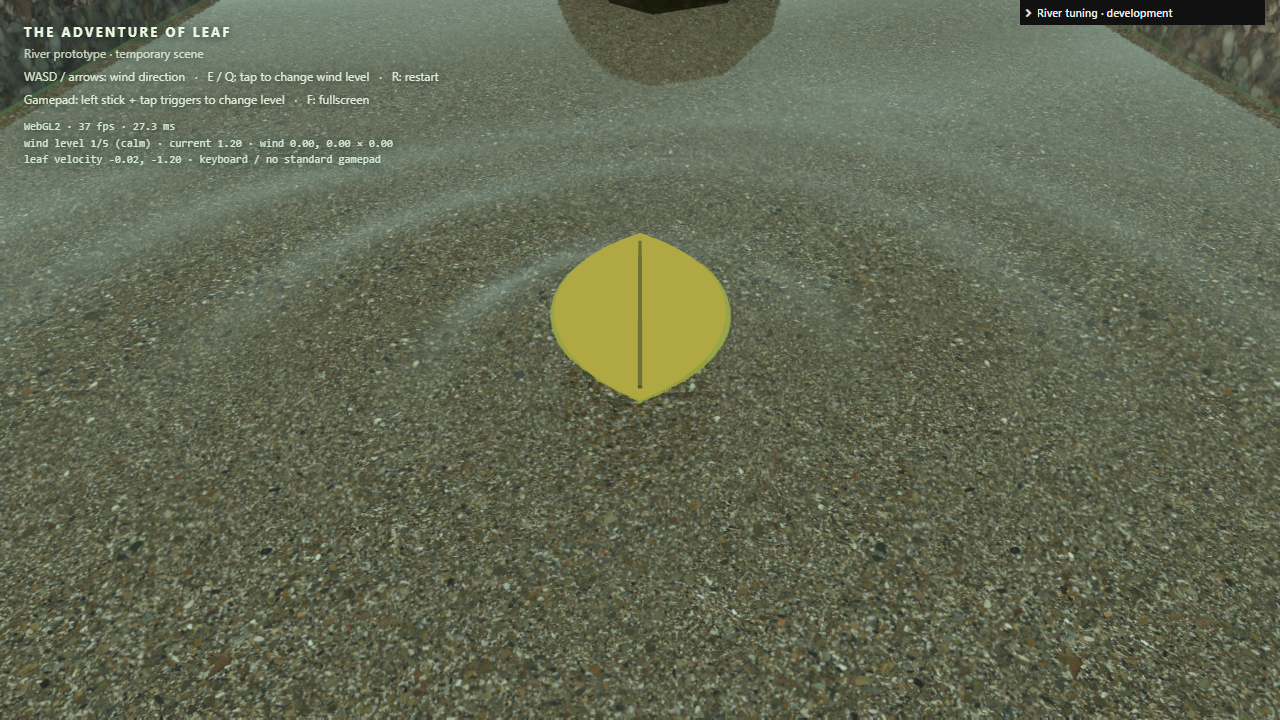
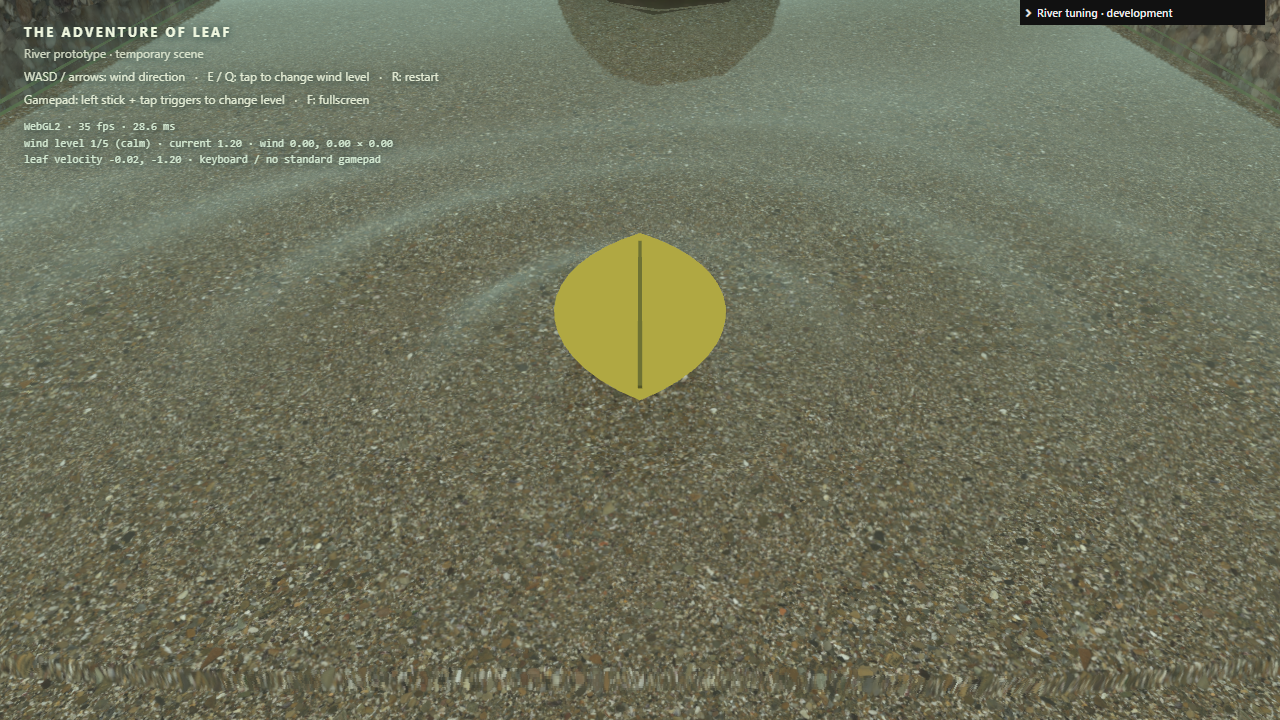
Add depth-aware refraction and physics presentation boundaries

diff --git a/src/water.ts b/src/water.ts
@@ -7,10 +7,22 @@ import {
   positionWorld,
   cameraPosition,
   float,
+  vec2,
   vec3,
   vec4,
   mix,
   uniform,
+  viewportDepthTexture,
+  perspectiveDepthToViewZ,
+  cameraNear,
+  cameraFar,
+  positionView,
+  normalView,
+  refract,
+  getScreenPosition,
+  cameraProjectionMatrix,
+  viewportSafeUV,
+  smoothstep,
 } from "three/tsl";
 
 // The opaque scene (including the complete leaf) is captured before transparent water.
@@ -23,11 +35,61 @@ export function createRiverWater(geometry: THREE.BufferGeometry) {
   const fresnel = float(0.02037).add(
     float(0.97963).mul(float(1).sub(normalWorld.dot(eye).max(0)).pow(5)),
   );
-  const refractedUV = screenUV
-    .add(normalWorld.xz.mul(0.012))
-    .clamp(0.001, 0.999);
-  const below = viewportTexture(refractedUV).rgb.mul(vec3(0.72, 0.93, 0.9));
+  const absorption = uniform(new THREE.Vector3(0.35, 0.12, 0.08));
   const tint = vec3(0.12, 0.31, 0.29);
+  const sceneZ = perspectiveDepthToViewZ(
+    viewportDepthTexture(screenUV),
+    cameraNear,
+    cameraFar,
+  );
+  const ray = refract(
+    positionView.normalize(),
+    normalView.normalize(),
+    float(1 / 1.333),
+  );
+  // One depth-guided projected Snell step. This is bounded screen-space refraction.
+  const path = positionView.z
+    .sub(sceneZ)
+    .max(0)
+    .div(ray.z.negate().max(0.1))
+    .min(3);
+  const projected = getScreenPosition(
+    positionView.add(ray.mul(path)),
+    cameraProjectionMatrix,
+  );
+  const edge = smoothstep(0, 0.03, projected.x)
+    .mul(smoothstep(0, 0.03, projected.y))
+    .mul(float(1).sub(smoothstep(0.97, 1, projected.x)))
+    .mul(float(1).sub(smoothstep(0.97, 1, projected.y)));
+  const offset = projected.sub(screenUV);
+  const bounded = screenUV.add(
+    offset.mul(float(0.015).div(offset.length().max(0.015))),
+  );
+  const candidateUV = viewportSafeUV(mix(screenUV, bounded, edge)) as ReturnType<typeof vec2>;
+  const candidateZ = perspectiveDepthToViewZ(
+    viewportDepthTexture(candidateUV),
+    cameraNear,
+    cameraFar,
+  );
+  // Reject cross-silhouette samples rather than stretching a foreground/leaf edge.
+  const continuity = float(1).sub(
+    smoothstep(0.03, 0.1, candidateZ.sub(sceneZ).abs()),
+  );
+  const refractedUV = mix(screenUV, candidateUV, continuity);
+  const sampledZ = perspectiveDepthToViewZ(
+    viewportDepthTexture(refractedUV),
+    cameraNear,
+    cameraFar,
+  );
+  const opticalPath = positionView.z
+    .sub(sampledZ)
+    .max(0)
+    .div(ray.z.negate().max(0.1))
+    .min(3);
+  const transmission = absorption.mul(opticalPath).negate().exp();
+  const below = viewportTexture(refractedUV)
+    .rgb.mul(transmission)
+    .add(tint.mul(vec3(1).sub(transmission)));
   const material = new THREE.MeshBasicNodeMaterial({
     transparent: true,
     depthWrite: false,
@@ -52,6 +114,7 @@ export function createRiverWater(geometry: THREE.BufferGeometry) {
     material,
     reflectionWeight,
     refractionWeight,
+    absorption,
     setQuality(value: number) {
       reflection.reflector.resolutionScale =
         0.5 * Math.min(1, Math.max(0.25, value));

diff --git a/src/main.ts b/src/main.ts
@@ -13,6 +13,11 @@ import {
   type Params,
 } from "./simulation";
 import "./style.css";
+import {
+  sampleEnvironment,
+  FIXED_STEP,
+  type LeafPose,
+} from "./physics-boundary";
 const app = document.querySelector<HTMLDivElement>("#app")!,
   diag = document.querySelector<HTMLOutputElement>("#diagnostics")!;
 let renderer: THREE.WebGPURenderer;
@@ -335,21 +340,17 @@ function render(dt: number) {
   for (const { mesh, rock } of foams)
     mesh.position.y =
       surface(rock.x + rock.r, rock.z, state.time, p, state) + 0.035;
-  leaf.position.set(state.x, state.y, state.z);
-  const eps = 0.15;
-  leaf.rotation.z =
-    Math.atan2(
-      surface(state.x + eps, state.z, state.time, p, state) -
-        surface(state.x - eps, state.z, state.time, p, state),
-      2 * eps,
-    ) * p.alignment;
-  leaf.rotation.x =
-    -Math.atan2(
-      surface(state.x, state.z + eps, state.time, p, state) -
-        surface(state.x, state.z - eps, state.time, p, state),
-      2 * eps,
-    ) * p.alignment;
-  leaf.rotation.y = Math.sin(state.time * 0.6) * 0.18 + state.vx * 0.3;
+  const environment = sampleEnvironment(state.x, state.z, state, p);
+  const pose: LeafPose = {
+    position: { x: state.x, y: state.y, z: state.z },
+    rotation: {
+      x: -Math.atan(environment.slopeZ) * p.alignment,
+      z: Math.atan(environment.slopeX) * p.alignment,
+      y: Math.sin(state.time * 0.6) * 0.18 + state.vx * 0.3,
+    },
+  };
+  leaf.position.set(pose.position.x, pose.position.y, pose.position.z);
+  leaf.rotation.set(pose.rotation.x, pose.rotation.y, pose.rotation.z);
   if (submersionTest) {
     leaf.position.y =
       surface(state.x, state.z, state.time, p, state) + submersionTest.offset;
@@ -395,9 +396,9 @@ function loop(now: number) {
   lastRender = now;
   if (!manual) {
     accumulator += dt;
-    while (accumulator >= 1 / 120) {
-      update(1 / 120);
-      accumulator -= 1 / 120;
+    while (accumulator >= FIXED_STEP) {
+      update(FIXED_STEP);
+      accumulator -= FIXED_STEP;
     }
   }
   render(manual ? 0 : dt);
@@ -476,6 +477,9 @@ if (import.meta.env.DEV) {
     waterFolder.add(p, "ripple", 0, 0.4, 0.01);
     waterFolder.add(p, "damping", 0, 1, 0.01);
     waterFolder.add(p, "quality", 0.5, 2, 0.1);
+    waterFolder.add(optics.absorption.value, "x", 0, 2, 0.01).name("red absorption");
+    waterFolder.add(optics.absorption.value, "y", 0, 2, 0.01).name("green absorption");
+    waterFolder.add(optics.absorption.value, "z", 0, 2, 0.01).name("blue absorption");
     const phys = gui.addFolder("Wind / leaf");
     phys.add(p, "deadzone", 0, 0.4, 0.01);
     phys.add(p, "windCurve", 0.4, 3, 0.1);

diff --git a/src/physics-boundary.ts b/src/physics-boundary.ts
@@ -1,0 +1,60 @@
+import {
+  surface,
+  flowField,
+  obstacles,
+  type State,
+  type Params,
+} from "./simulation.ts";
+export interface Vector3Data {
+  x: number;
+  y: number;
+  z: number;
+}
+export interface LeafPose {
+  position: Vector3Data;
+  rotation: Vector3Data;
+}
+export interface LeafMeshData {
+  id: string;
+  positions: Float32Array;
+  normals: Float32Array;
+  uvs: Float32Array;
+  indices?: Uint32Array;
+}
+/** A future physics step may replace topology and supply several connected fragments. */
+export interface LeafFrame {
+  pose: LeafPose;
+  fragments?: readonly LeafMeshData[];
+}
+export const FIXED_STEP = 1 / 120;
+export function sampleEnvironment(
+  x: number,
+  z: number,
+  state: State,
+  params: Params,
+) {
+  const height = surface(x, z, state.time, params, state);
+  const epsilon = 0.15;
+  const slopeX =
+    (surface(x + epsilon, z, state.time, params, state) -
+      surface(x - epsilon, z, state.time, params, state)) /
+    (2 * epsilon);
+  const slopeZ =
+    (surface(x, z + epsilon, state.time, params, state) -
+      surface(x, z - epsilon, state.time, params, state)) /
+    (2 * epsilon);
+  const length = Math.hypot(slopeX, 1, slopeZ);
+  return {
+    time: state.time,
+    height,
+    slopeX,
+    slopeZ,
+    normal: { x: -slopeX / length, y: 1 / length, z: -slopeZ / length },
+    current: flowField(x, z, state.time, params),
+    wind: {
+      x: state.windX * state.intensity * params.windStrength,
+      z: state.windZ * state.intensity * params.windStrength,
+    },
+    obstacles: obstacles as readonly Readonly<(typeof obstacles)[number]>[],
+  };
+}

diff --git a/docs/ARCHITECTURE.md b/docs/ARCHITECTURE.md
@@ -10,7 +10,7 @@ See PERFORMANCE.md for measured water costs and GITAGENT_VALIDATION.md for actua
 
 The drawing buffer is resized on viewport events or actual pixel-ratio changes; steady render frames do not call the pixel-ratio setter. Obstacle deflection has been narrowed and reduced so the default zero-wind path clears the rocks without approaching the bank as closely.
 
-Water optics (PR #3 work in progress): gameplay now uses the asynchronously initialized Three.js WebGPURenderer. Its initialized backend supplies diagnostics; the renderer prefers WebGPU and automatically falls back to WebGL2. `?forceWebGL` forces that backend in development only. All Three.js scene classes come from three/webgpu. A TSL MeshBasicNodeMaterial mixes a ReflectorNode planar reflection with viewport scene-color sampling, modulated by Fresnel. The water is transparent in render ordering but outputs opaque composited color, with depth testing and no depth writes. Opaque leaf geometry is present in the scene-color capture, including submerged parts. There is no artificial clearance lift or leaf exclusion. Refraction currently uses a bounded normal-based screen offset; depth rejection, depth-based attenuation and waterline edge artifacts still need work before acceptance. Reflection capture scales with drawing-buffer dimensions and quality. Diagnostics report actual capture width/height. The CPU water grid and fixed 120 Hz physics remain shared.
+Water optics (PR #3 work in progress): gameplay now uses the asynchronously initialized Three.js WebGPURenderer. Its initialized backend supplies diagnostics; the renderer prefers WebGPU and automatically falls back to WebGL2. `?forceWebGL` forces that backend in development only. All Three.js scene classes come from three/webgpu. A TSL MeshBasicNodeMaterial mixes a ReflectorNode planar reflection with viewport scene-color sampling, modulated by Fresnel. The water is transparent in render ordering but outputs opaque composited color, with depth testing and no depth writes. Opaque leaf geometry is present in the scene-color capture, including submerged parts. There is no artificial clearance lift or leaf exclusion. Refraction currently uses a bounded normal-based screen offset; waterline edge artifacts still need work before acceptance. Reflection capture scales with drawing-buffer dimensions and quality. Diagnostics report actual capture width/height. The CPU water grid and fixed 120 Hz physics remain shared.
 
 Development manual mode exposes isolated above/partial/full-submersion pose overrides and a raised test camera; neither is exposed in production. The test changes rendered pose only, not simulation state.
 
@@ -21,3 +21,5 @@ Refraction samples clamp at viewport edges. Offscreen objects cannot be recovere
 The extended river spans z=20 to z=-110; the leaf returns to the starting position at z=-109.7 for continuous slice testing, preserving wind settings and snapping the camera to avoid a long sweep. Water and bed share this extent and preserve texture/mesh spacing. Temporary wind indicators are tapered, wavy ribbon meshes: count, length, curvature and animation rate respond to the existing directed wind strength. They do not apply force or introduce a new control.
 
 Wind uses five persistent selectable levels; trigger edge detection with hysteresis gives one change per press, and intensity transitions smoothly to the selected level. Neutral stick means no directed wind; restart returns to calm.
+
+Depth-refraction increment: scene depth estimates the optical travel for a projected Snell ray. Bounded UV displacement, viewportSafeUV foreground rejection, a depth-discontinuity continuity weight and viewport-edge fading select the scene-color sample. Beer-Lambert transmission uses a tunable RGB absorption coefficient. This remains a one-step screen-space approximation, not ray tracing. `physics-boundary.ts` adapts shared sampling and supplies renderer-independent pose/fragment data types. Main consumes its slopes and pose with the same 120 Hz clock. Fragment buffer upload is future work; see RAPIER_INTEGRATION_PLAN.md.

diff --git a/docs/RAPIER_INTEGRATION_PLAN.md b/docs/RAPIER_INTEGRATION_PLAN.md
@@ -1,0 +1,11 @@
+# Rapier integration plan for PR #4
+
+The current deterministic clock owns one FIXED_STEP=1/120-second update. Rapier must replace the relevant step implementation, not add a second clock. Input sampling, restart and lap reset must be forwarded to that owner. No Rapier runtime is installed in PR #3.
+
+`physics-boundary.ts` supplies renderer-independent water height, slope and unit normal, current, wind, time and obstacle descriptors by adapting the current simulation functions. Future particle buoyancy samples these values at particle world positions. Drag/current and wind forces must be timestep-scaled; calibrate buoyancy against displaced area/mass. Rock circles currently describe horizontal constraints; PR #4 must choose explicit rigid collider shapes without changing obstacle placement.
+
+The presentation boundary defines pose plus stable fragment IDs, vertex positions, normals, UVs and optional index buffers. PR #4 must implement the buffer consumer: retain buffers when topology is unchanged, update attributes/normals for deformation, and replace/dispose geometry only after topology changes. Particle-to-vertex mappings and UV seams require explicit ownership. Multiple connected pieces require separate fragment meshes; do not assume a single rigid pose describes every torn piece. The current renderer consumes the rigid pose, while deformable fragment upload is still future work.
+
+Official JavaScript references: [soft bodies](https://rapier.rs/docs/user_guides/javascript/soft_bodies/) and [tearing](https://rapier.rs/docs/user_guides/javascript/soft_body_tearing/). These describe particles, constraints, deformable colliders and topology changes. Verify the chosen npm package version actually exposes the documented APIs before installing. Do not assume ordinary rigid-body APIs implement soft-body tearing. Tear events and topology versions must update presentation mappings after the physics step; newly disconnected pieces need their own state.
+
+Keep simulation reproducible at fixed steps, with tests for force units, resets, collider passage and topology ownership. WASM initialization, memory growth and crossing the JS/WASM boundary per particle can dominate cost; batch reads/updates and measure on target browsers. Do not transfer render buffers while Three.js still owns them. Hardware rendering performance and soft-body solver iteration budgets need measurement before selecting particle density.

diff --git a/docs/KNOWN_ISSUES.md b/docs/KNOWN_ISSUES.md
@@ -7,7 +7,7 @@
 - CPU timings and software-rendered frame intervals are recorded in PERFORMANCE.md; representative physical GPU performance remains unverified. The CPU-updated water mesh may be costly. The Vite build reports a large JavaScript chunk. The quality control changes rendering pixel ratio and optical capture resolution; it does not change simulation complexity.
 - No Windows or Mac executable is packaged or tested. The jam requires one. AI disclosure and all dependency/asset licenses need final review before submission.
 
-Optics migration limitations: the new node water uses planar reflection and a screen-space scene-color offset for refraction. It does not yet implement depth-aware rejection, physically based underwater attenuation or fully verified waterline continuity. Reflected geometry and submerged leaf screenshots are visible on the WebGL2 backend; native hardware WebGPU, optics parity and resource-leak testing remain unverified. PR #3 remains unfinished.
+Optics migration limitations: the new node water uses planar reflection and a screen-space scene-color offset for refraction. It now includes depth-aware sample rejection and optical-path attenuation; full waterline continuity and edge acceptance remain unverified. Reflected geometry and submerged leaf screenshots are visible on the WebGL2 backend; native hardware WebGPU, optics parity and resource-leak testing remain unverified. PR #3 remains unfinished.
 
 Leaf ripples follow the leaf as a localized approximation; they do not persist as independently propagating wake history.
 

diff --git a/docs/DECISIONS.md b/docs/DECISIONS.md
@@ -6,3 +6,5 @@
 - 2026-10-29: James chose five persistent wind levels: calm plus four increasing strengths. Each right/left trigger press changes one level; this supersedes the earlier neutral-trigger automatic return to natural intensity. Neutral stick still removes directed wind.
 
 PR #3 working increment: replace legacy WebGLRenderer/Reflector/Refractor/ShaderMaterial with WebGPURenderer and a single TSL water material. Keep CPU deformation for agreement with physics; native GPU displacement is deferred until measured and compared. Use a screen-color capture so submerged opaque leaf geometry remains available; refine depth handling before artistic acceptance.
+
+Depth-refraction follow-up: use Three.js viewportSafeUV for foreground rejection, a projected Snell ray guided by sampled view depth, bounded displacement and depth-discontinuity fallback at silhouettes. Beer-Lambert RGB transmission depends on estimated optical path. This deliberately bounds screen-space limitations rather than pretending offscreen ray information exists.

diff --git a/progress.md b/progress.md
@@ -37,3 +37,5 @@ James requested a low close-follow camera. Defaults set to 0.65 m behind the lea
 - Added a temporary continuous river loop and a GitHub Pages deployment workflow. Visibility and Pages source are GitHub settings to apply separately; validate a live deployment after merge.
 
 - PR #3: actual gameplay now initializes WebGPURenderer asynchronously. Replaced water with TSL reflection/scene-color refraction and removed the experimental probe, leaf lift, and exclusion. Forced WebGL2 and automatic fallback browser suites passed. Native WebGPU, refined optics, Rapier boundaries and remaining acceptance are unfinished.
+
+- Added depth-aware Snell projection, safe foreground UVs, bounded offsets, silhouette-depth rejection and path-length absorption. Added environmental sampling and typed presentation boundary with tests. Remaining: native WebGPU/hardware and optical acceptance, expanded transition/edge/wind scenarios and matched performance comparisons.
